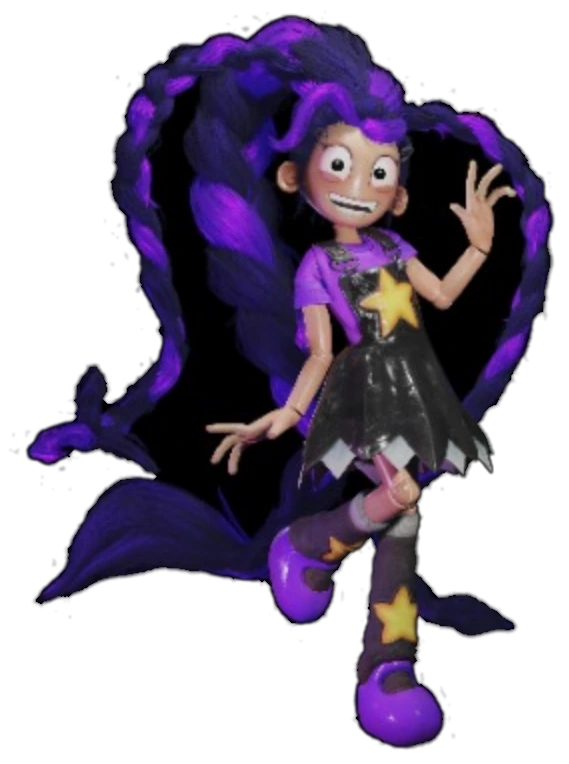
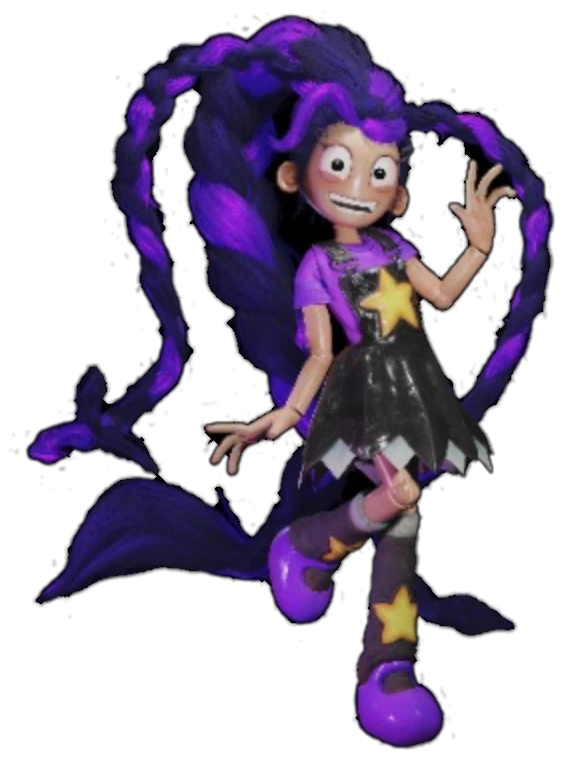
Maintenance page: WebGL puppet rig for realistic humanoid animation
Replace flat CSS dances with a full WebGL mesh-deformation puppet rig
(public/maintenance/rig.js) wired into maintenance.html.

Each character is a triangulated mesh (~13 px cells) with an anatomically
placed skeleton. Per-vertex weights use Gaussian falloff from each bone
segment. At every frame the parent-chain transform is accumulated and
applied to deform the mesh — the same technique used in 2-D animation
software ("puppet" warp).

Three completely distinct dances:
• Lily  — hip-hop groove: side-step (tx 18 sin), arms pump and wave,
          legs kick, hair whips one beat behind. 1 beat/s.
• Doey  — wild bouncy jig: genuine vertical jump (ty −52 × air),
          squash-stretch on landing, arms fling up alternately. 0.75 s beat.
• Poppy — music-box ballerina on a 6 s loop: curtsy, stiff arm-raise to
          overhead (118°), then a 720° pirouette with skirt flaring and
          pigtails flying.

Falls back silently to CSS dances if WebGL is unavailable or
prefers-reduced-motion is set. CSS dance is disabled via .pal.rigged
once the rig takes over.

Also includes the updated lily.webp cutout (hair preserved) from last
session.

Changed region(s): [[0.2091, 0.1204, 0.5378, 0.7225], [0.717, 0.2408, 0.9262, 0.5419], [0.6872, 0.1505, 0.8366, 0.3613]]

diff --git a/public/maintenance/rig.js b/public/maintenance/rig.js
@@ -1,0 +1,233 @@
+/* Puppet rig for the maintenance page.
+   Each character is a flat picture on a mesh. A hidden skeleton (bones with joints) bends the mesh, like the "puppet" tool in
+   animation software: arms, legs, head and hair move on their own, and every character has its own dance.
+   If WebGL is not available, nothing here runs and the page falls back to its simple CSS dances. */
+(function () {
+  'use strict';
+  if (window.matchMedia && matchMedia('(prefers-reduced-motion: reduce)').matches) return;
+
+  /* ---------- tiny 2D matrices: [a, b, c, d, e, f] means x' = a*x + c*y + e, y' = b*x + d*y + f ---------- */
+  const mul = (m, n) => [m[0] * n[0] + m[2] * n[1], m[1] * n[0] + m[3] * n[1], m[0] * n[2] + m[2] * n[3], m[1] * n[2] + m[3] * n[3], m[0] * n[4] + m[2] * n[5] + m[4], m[1] * n[4] + m[3] * n[5] + m[5]];
+  const rotAbout = (deg, px, py) => { const r = deg * Math.PI / 180, c = Math.cos(r), s = Math.sin(r); return [c, s, -s, c, px - c * px + s * py, py - s * px - c * py]; };
+  const scaleAbout = (sx, sy, px, py) => [sx, 0, 0, sy, px - sx * px, py - sy * py];
+  const move = (tx, ty) => [1, 0, 0, 1, tx, ty];
+  const ID = [1, 0, 0, 1, 0, 0];
+  const clamp01 = (x) => Math.max(0, Math.min(1, x));
+  const smooth = (x) => { x = clamp01(x); return x * x * (3 - 2 * x); };
+  const sin = Math.sin, abs = Math.abs, PI = Math.PI;
+  const step = (u, a, b) => smooth((u - a) / (b - a));           // 0 before a, 1 after b, eased in between
+  const dist2Seg = (px, py, ax, ay, bx, by) => { const vx = bx - ax, vy = by - ay, l2 = vx * vx + vy * vy || 1; let t = ((px - ax) * vx + (py - ay) * vy) / l2; t = clamp01(t); const dx = px - (ax + t * vx), dy = py - (ay + t * vy); return Math.sqrt(dx * dx + dy * dy); };
+
+  /* ---------- the three characters: size of the picture, bones, and the dance ---------- */
+  // bone: [name, parentName, jointX, jointY, endX, endY, reach, strength]   (reach = how far its influence spreads, in picture pixels)
+  const CHARS = {
+    lily: {
+      w: 569, h: 764, src: 'lily.webp',
+      bones: [
+        ['hips', null, 372, 480, 372, 330, 190, 1],
+        ['chest', 'hips', 365, 420, 345, 250, 95, 3],
+        ['head', 'chest', 348, 245, 340, 110, 100, 4],
+        ['armR1', 'chest', 410, 262, 445, 298, 36, 4], ['armR2', 'armR1', 445, 298, 492, 190, 36, 4],
+        ['armL1', 'chest', 315, 268, 300, 405, 36, 4], ['armL2', 'armL1', 300, 405, 215, 440, 32, 4],
+        ['legL1', 'hips', 345, 490, 312, 548, 40, 4], ['legL2', 'legL1', 312, 548, 298, 598, 42, 4],
+        ['legR1', 'hips', 395, 495, 398, 605, 42, 4], ['legR2', 'legR1', 398, 605, 400, 725, 44, 4],
+        ['hairL1', 'head', 255, 95, 140, 330, 80, 3], ['hairL2', 'hairL1', 140, 330, 75, 520, 78, 3],
+        ['hairR1', 'head', 440, 95, 535, 230, 70, 3], ['hairR2', 'hairR1', 535, 230, 470, 380, 62, 3],
+      ],
+      // Lily: a hip-hop groove. Steps side to side, pumps and waves her arms, kicks her legs out, hair whips behind the beat.
+      dance(t) {
+        const f = 2 * PI * t;                                        // one beat per second
+        const half = f / 2;
+        const k = (x) => Math.max(0, x);
+        return {
+          root: { tx: 18 * sin(half), ty: 8 * Math.cos(f) + 4, rot: 2.5 * sin(half), sx: 1, sy: 1 - 0.015 * Math.cos(f) },
+          a: {
+            hips: 6 * sin(half), chest: -9 * sin(half + 0.3), head: -13 * sin(half + 0.9) + 4 * sin(2 * f),
+            armR1: -26 + 26 * sin(f), armR2: 32 * sin(2 * f + 0.8),
+            armL1: 16 + 24 * sin(half + PI), armL2: 22 * sin(f + 1),
+            legL1: 20 * k(sin(half)), legL2: -26 * k(sin(half)),
+            legR1: -16 * k(sin(half + PI)), legR2: 20 * k(sin(half + PI)),
+            hairL1: 11 * sin(half - 1.0), hairL2: 18 * sin(half - 1.8), hairR1: -11 * sin(half - 0.5), hairR2: -16 * sin(half - 1.3),
+          },
+          spin: 0,
+        };
+      },
+    },
+    doey: {
+      w: 608, h: 800, src: 'doey.webp',
+      bones: [
+        ['body', null, 300, 720, 290, 330, 230, 1],
+        ['head', 'body', 255, 330, 265, 160, 110, 4],
+        ['hat', 'head', 270, 95, 295, 45, 42, 4],
+        ['armL1', 'body', 170, 385, 45, 450, 62, 3], ['armL2', 'armL1', 45, 450, 75, 690, 58, 3],
+        ['armR1', 'body', 380, 385, 565, 485, 62, 3], ['armR2', 'armR1', 565, 485, 510, 760, 62, 3],
+      ],
+      // Doey: a wild bouncy jig. Jumps off the floor and squashes on landing, flings his arms up one at a time, head and hat flop.
+      dance(t) {
+        const f = 2 * PI * t / 0.75;                                  // a beat every 0.75 s
+        const air = abs(sin(f / 2));                                 // 0 on the floor, 1 at the top of the jump
+        return {
+          root: { tx: 10 * sin(f / 4), ty: -52 * air, rot: 5 * sin(f / 2 + 0.4), sx: 1 + 0.14 * (0.5 - air), sy: 1 - 0.18 * (0.5 - air) },
+          a: {
+            body: 3 * sin(f / 2), head: 15 * sin(f / 2 + 1.3), hat: 28 * sin(f / 2 - 0.4),
+            armL1: 28 + 48 * sin(f / 2), armL2: 34 * sin(f / 2 + 1.3),
+            armR1: -(28 + 48 * sin(f / 2 + PI)), armR2: -34 * sin(f / 2 + PI + 1.3),
+          },
+          spin: 0,
+        };
+      },
+    },
+    poppy: {
+      w: 701, h: 719, src: 'poppy.webp',
+      bones: [
+        ['skirt', null, 350, 500, 350, 650, 150, 1],
+        ['torso', 'skirt', 350, 490, 350, 385, 62, 3],
+        ['head', 'torso', 350, 385, 350, 230, 150, 3],
+        ['tailL', 'head', 205, 95, 110, 235, 100, 3],
+        ['tailR', 'head', 470, 75, 590, 205, 105, 3],
+        ['armL', 'torso', 255, 458, 180, 456, 30, 4],
+        ['armR', 'torso', 455, 458, 545, 462, 30, 4],
+      ],
+      // Poppy: a music-box ballerina on a 6 s loop. Curtsy, arms rise in stiff little steps, then a double pirouette with the skirt flaring.
+      dance(t) {
+        const T = 6, u = (t % T) / T, q = Math.floor(t * 10) / 10;       // q: the doll moves in little ticks
+        const qu = (q % T) / T;
+        const curtsy = step(u, 0.0, 0.1) * (1 - step(u, 0.2, 0.28));       // dip down
+        const raise = step(qu, 0.28, 0.42) * (1 - step(qu, 0.9, 0.97));   // arms overhead
+        const spinPhase = step(u, 0.5, 0.88);                              // pirouette progress 0..1
+        const spinSpeed = Math.sin(PI * clamp01((u - 0.5) / 0.38));         // 0 -> 1 -> 0 while spinning
+        const nod = (sin(2 * PI * q / 1.2)) * (1 - raise * 0.5);
+        const floatY = -8 + 5 * sin(2 * PI * t / 1.5);
+        return {
+          root: { tx: 0, ty: floatY + 26 * curtsy, rot: 0, sx: 1 + 0.03 * curtsy, sy: 1 - 0.04 * curtsy },
+          a: {
+            skirt: -4 * curtsy + 9 * spinSpeed * sin(2 * PI * t * 3), torso: 16 * curtsy - 3 * raise, head: 9 * nod - 9 * curtsy + 7 * raise * sin(2 * PI * q / 2),
+            tailL: 7 * sin(2 * PI * t / 1.5 - 0.6) - 26 * spinSpeed, tailR: 7 * sin(2 * PI * t / 1.5 - 1.1) + 26 * spinSpeed,
+            armL: -22 * curtsy + 118 * raise + 6 * sin(2 * PI * q / 1.2),
+            armR: 22 * curtsy - 118 * raise - 6 * sin(2 * PI * q / 1.2),
+          },
+          spin: 720 * spinPhase,
+        };
+      },
+    },
+  };
+
+  /* ---------- building a character: mesh, weights, GL ---------- */
+  const VS = 'attribute vec2 a_pos; attribute vec2 a_uv; uniform vec2 u_size; uniform vec2 u_pad; varying vec2 v_uv;' +
+    'void main(){ vec2 p = (a_pos + u_pad) / (u_size + 2.0 * u_pad); gl_Position = vec4(p.x * 2.0 - 1.0, 1.0 - p.y * 2.0, 0.0, 1.0); v_uv = a_uv; }';
+  const FS = 'precision mediump float; uniform sampler2D u_tex; varying vec2 v_uv; void main(){ gl_FragColor = texture2D(u_tex, v_uv); }';
+  const PADF = 0.2;
+  const base = (document.currentScript && document.currentScript.src) ? document.currentScript.src.replace(/[^/]*$/, '') : '/maintenance/';
+
+  function shader(gl, type, src) { const s = gl.createShader(type); gl.shaderSource(s, src); gl.compileShader(s); if (!gl.getShaderParameter(s, gl.COMPILE_STATUS)) throw new Error(gl.getShaderInfoLog(s)); return s; }
+
+  function build(name, cfg, pal) {
+    const img = pal.querySelector('img');
+    const cv = document.createElement('canvas');
+    const pad = Math.round(Math.max(cfg.w, cfg.h) * PADF);
+    const cw = cfg.w + 2 * pad, ch = cfg.h + 2 * pad;
+    const res = Math.min(1, 1100 / Math.max(cw, ch));
+    cv.width = Math.round(cw * res); cv.height = Math.round(ch * res);
+    cv.className = 'rig-canvas';
+    cv.style.cssText = 'position:absolute;pointer-events:none;left:' + (-100 * pad / cfg.w) + '%;top:' + (-100 * pad / cfg.h) + '%;width:' + (100 * cw / cfg.w) + '%;height:' + (100 * ch / cfg.h) + '%;';
+    const gl = cv.getContext('webgl', { alpha: true, premultipliedAlpha: true, antialias: true });
+    if (!gl) throw new Error('no webgl');
+    const prog = gl.createProgram();
+    gl.attachShader(prog, shader(gl, gl.VERTEX_SHADER, VS)); gl.attachShader(prog, shader(gl, gl.FRAGMENT_SHADER, FS)); gl.linkProgram(prog);
+    if (!gl.getProgramParameter(prog, gl.LINK_STATUS)) throw new Error('link');
+    gl.useProgram(prog);
+
+    // mesh
+    const cell = 13, cols = Math.round(cfg.w / cell), rows = Math.round(cfg.h / cell);
+    const nv = (cols + 1) * (rows + 1);
+    const rest = new Float32Array(nv * 2), uv = new Float32Array(nv * 2), pos = new Float32Array(nv * 2);
+    for (let j = 0, i = 0; j <= rows; j++) for (let k = 0; k <= cols; k++, i++) { rest[i * 2] = k / cols * cfg.w; rest[i * 2 + 1] = j / rows * cfg.h; uv[i * 2] = k / cols; uv[i * 2 + 1] = j / rows; }
+    const idx = new Uint16Array(cols * rows * 6);
+    for (let j = 0, n = 0; j < rows; j++) for (let k = 0; k < cols; k++) { const a = j * (cols + 1) + k, b = a + 1, c = a + cols + 1, d = c + 1; idx.set([a, c, b, b, c, d], n); n += 6; }
+
+    // bones and per-vertex weights
+    const bones = cfg.bones.map((b, i) => ({ name: b[0], parent: b[1] ? cfg.bones.findIndex((x) => x[0] === b[1]) : -1, jx: b[2], jy: b[3], ex: b[4], ey: b[5], reach: b[6], gain: b[7], i }));
+    const wIdx = [], wVal = [];
+    for (let v = 0; v < nv; v++) {
+      const x = rest[v * 2], y = rest[v * 2 + 1];
+      const ws = bones.map((b) => { const d = dist2Seg(x, y, b.jx, b.jy, b.ex, b.ey); return b.gain * Math.exp(-(d * d) / (b.reach * b.reach)); });
+      // the first (root) bone always has a floor of influence so no vertex is left without a bone
+      ws[0] += 0.02;
+      let sum = 0; for (const w of ws) sum += w;
+      const li = [], lv = [];
+      ws.forEach((w, i) => { if (w / sum > 0.004) { li.push(i); lv.push(w / sum); } });
+      wIdx.push(li); wVal.push(lv);
+    }
+
+    // buffers
+    const posBuf = gl.createBuffer(), uvBuf = gl.createBuffer(), idxBuf = gl.createBuffer();
+    gl.bindBuffer(gl.ARRAY_BUFFER, uvBuf); gl.bufferData(gl.ARRAY_BUFFER, uv, gl.STATIC_DRAW);
+    const aUv = gl.getAttribLocation(prog, 'a_uv'); gl.enableVertexAttribArray(aUv); gl.vertexAttribPointer(aUv, 2, gl.FLOAT, false, 0, 0);
+    gl.bindBuffer(gl.ARRAY_BUFFER, posBuf); gl.bufferData(gl.ARRAY_BUFFER, pos.byteLength, gl.DYNAMIC_DRAW);
+    const aPos = gl.getAttribLocation(prog, 'a_pos'); gl.enableVertexAttribArray(aPos); gl.vertexAttribPointer(aPos, 2, gl.FLOAT, false, 0, 0);
+    gl.bindBuffer(gl.ELEMENT_ARRAY_BUFFER, idxBuf); gl.bufferData(gl.ELEMENT_ARRAY_BUFFER, idx, gl.STATIC_DRAW);
+    gl.uniform2f(gl.getUniformLocation(prog, 'u_size'), cfg.w, cfg.h); gl.uniform2f(gl.getUniformLocation(prog, 'u_pad'), pad, pad);
+    gl.enable(gl.BLEND); gl.blendFunc(gl.ONE, gl.ONE_MINUS_SRC_ALPHA);
+    gl.viewport(0, 0, cv.width, cv.height);
+
+    const ch0 = { name, cfg, pal, img, cv, gl, bones, rest, pos, posBuf, wIdx, wVal, nv, idxCount: idx.length, ready: false, M: bones.map(() => ID) };
+    const tex = gl.createTexture();
+    const im = new Image();
+    im.onload = () => {
+      gl.bindTexture(gl.TEXTURE_2D, tex);
+      gl.pixelStorei(gl.UNPACK_PREMULTIPLY_ALPHA_WEBGL, true);
+      gl.texImage2D(gl.TEXTURE_2D, 0, gl.RGBA, gl.RGBA, gl.UNSIGNED_BYTE, im);
+      gl.texParameteri(gl.TEXTURE_2D, gl.TEXTURE_WRAP_S, gl.CLAMP_TO_EDGE); gl.texParameteri(gl.TEXTURE_2D, gl.TEXTURE_WRAP_T, gl.CLAMP_TO_EDGE);
+      gl.texParameteri(gl.TEXTURE_2D, gl.TEXTURE_MIN_FILTER, gl.LINEAR); gl.texParameteri(gl.TEXTURE_2D, gl.TEXTURE_MAG_FILTER, gl.LINEAR);
+      ch0.ready = true; pal.classList.add('rigged'); pal.appendChild(cv);
+    };
+    im.src = base + cfg.src;
+    return ch0;
+  }
+
+  function pose(c, t) {
+    const d = c.cfg.dance(t), r = d.root;
+    const hip = c.bones[0];
+    // the whole body: move, lean and squash about the feet/hips
+    const rootM = mul(move(r.tx, r.ty), mul(scaleAbout(r.sx, r.sy, hip.jx, c.cfg.h * 0.97), rotAbout(r.rot, hip.jx, hip.jy)));
+    const M = [];
+    c.bones.forEach((b, i) => {
+      const local = rotAbout(d.a[b.name] || 0, b.jx, b.jy);
+      M[i] = b.parent < 0 ? mul(rootM, local) : mul(M[b.parent], local);
+    });
+    const pos = c.pos, rest = c.rest;
+    for (let v = 0; v < c.nv; v++) {
+      const x = rest[v * 2], y = rest[v * 2 + 1], li = c.wIdx[v], lv = c.wVal[v];
+      let px = 0, py = 0;
+      for (let k = 0; k < li.length; k++) { const m = M[li[k]], w = lv[k]; px += w * (m[0] * x + m[2] * y + m[4]); py += w * (m[1] * x + m[3] * y + m[5]); }
+      pos[v * 2] = px; pos[v * 2 + 1] = py;
+    }
+    return d;
+  }
+
+  function draw(c, t) {
+    const d = pose(c, t), gl = c.gl;
+    gl.clearColor(0, 0, 0, 0); gl.clear(gl.COLOR_BUFFER_BIT);
+    gl.bindBuffer(gl.ARRAY_BUFFER, c.posBuf); gl.bufferSubData(gl.ARRAY_BUFFER, 0, c.pos);
+    gl.drawElements(gl.TRIANGLES, c.idxCount, gl.UNSIGNED_SHORT, 0);
+    c.cv.style.transform = d.spin ? 'perspective(900px) rotateY(' + d.spin.toFixed(1) + 'deg)' : '';
+  }
+
+  function start() {
+    const list = [];
+    document.querySelectorAll('.pal[data-rig]').forEach((pal) => {
+      const name = pal.getAttribute('data-rig');
+      try { list.push(build(name, CHARS[name], pal)); } catch (e) { /* this one keeps its CSS dance */ }
+    });
+    if (!list.length) return;
+    const api = window.RIG = { time: null, chars: list };
+    const t0 = performance.now();
+    function frame(now) {
+      const t = api.time != null ? api.time : (now - t0) / 1000;
+      if (!document.hidden) list.forEach((c) => { if (c.ready) draw(c, t); });
+      requestAnimationFrame(frame);
+    }
+    requestAnimationFrame(frame);
+  }
+  if (document.readyState === 'loading') document.addEventListener('DOMContentLoaded', start); else start();
+})();

diff --git a/public/maintenance.html b/public/maintenance.html
@@ -91,6 +91,11 @@
   @media (max-height: 560px) { .pal { --size: 70px; } .pal.d { --size: 84px; } }
 
 
+
+  /* once the rig is loaded the CSS dance is replaced */
+  .pal.rigged { animation: none !important; }
+  .rig-canvas { image-rendering: high-quality; }
+
   /* ---------- the characters themselves (cut out, no circles), and the RGB logo ---------- */
   .page { gap: clamp(8px, 2vh, 22px); }
   .logo { margin: 0; font-size: clamp(44px, 10.5vw, 108px); font-weight: 900; letter-spacing: -.02em; line-height: 1.05; padding: 0 .06em;
@@ -195,9 +200,9 @@
 <main class="page">
   <div class="head"><h2 class="logo" aria-label="character.mind">character.mind</h2><div class="logo-bar" aria-hidden="true"></div></div>
   <div class="trio" aria-hidden="true">
-    <div class="pal l"><img src="/maintenance/lily.webp" alt=""></div>
-    <div class="pal d"><img src="/maintenance/doey.webp" alt=""></div>
-    <div class="pal p"><img src="/maintenance/poppy.webp" alt=""></div>
+    <div class="pal l" data-rig="lily"><img src="/maintenance/lily.webp" alt=""></div>
+    <div class="pal d" data-rig="doey"><img src="/maintenance/doey.webp" alt=""></div>
+    <div class="pal p" data-rig="poppy"><img src="/maintenance/poppy.webp" alt=""></div>
     <div class="ball"></div>
   </div>
 
@@ -250,5 +255,6 @@
   setInterval(check, 12000);
 })();
 </script>
+  <script src="/maintenance/rig.js"></script>
 </body>
 </html>
